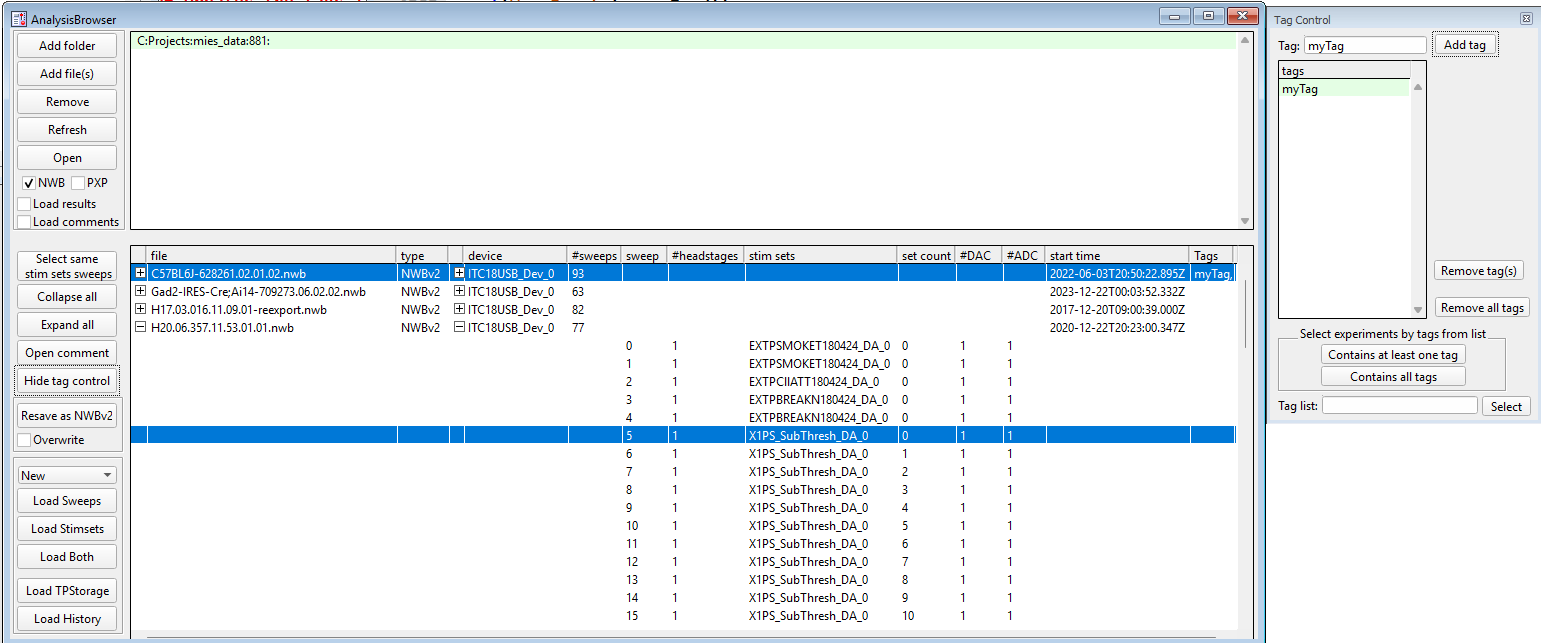
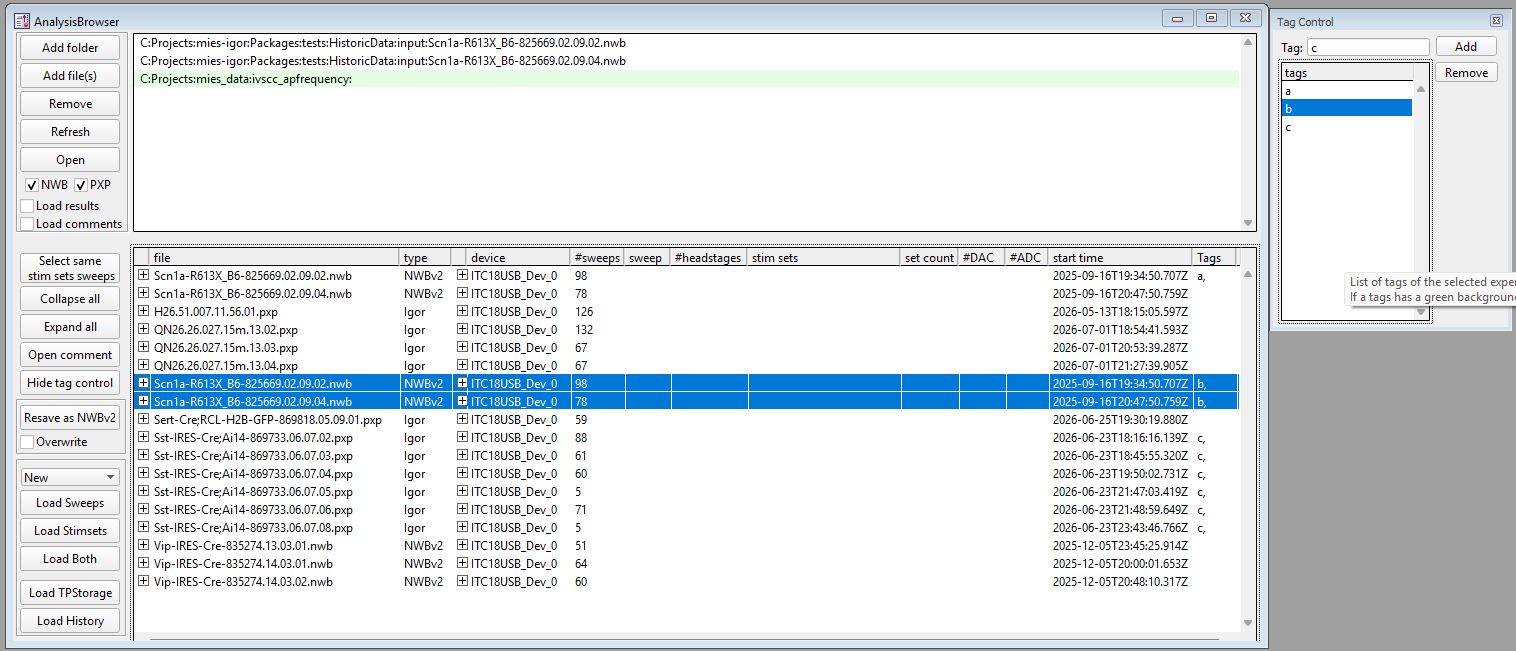
AB: Revision two of tag control
- simplified tag control
- only button Add/Remove
- selecting tags in the tag list select experiments with exactly the
  same tags
- subwindow resizing works properly now

diff --git a/Packages/doc/analysisbrowser.rst b/Packages/doc/analysisbrowser.rst
@@ -69,18 +69,14 @@ are sanitized to valid Igor object names (e.g. a comma is replaced with an under
 
 * Input field "Tag": Enter a single tag name here. Pressing Enter adds it to all experiments currently
   selected in the experiment list.
-* Button "Add tag": Same action as pressing Enter in the "Tag" field.
-* Listbox: Lists the tags present across the currently selected experiments. A tag has a green
-  background if every selected experiment carries it.
-* Button "Remove tag(s)": Removes the tags selected in the listbox from all selected experiments.
-* Button "Remove all tags": Removes all tags from all selected experiments. Use with care, this cannot be undone.
-* Button "Contains at least one tag": Selects all experiments in the experiment list that carry at least
-  one of the tags selected in the listbox.
-* Button "Contains all tags": Selects all experiments in the experiment list whose tags are exactly the
-  tags selected in the listbox (not more, not fewer).
-* Input field "Tag list": Enter a comma-separated list of tags. Pressing Enter, or the "Select" button,
-  selects experiments whose tags exactly match this list.
-* Button "Select": Same action as pressing Enter in the "Tag list" field.
+* Button "Add": Same action as pressing Enter in the "Tag" field.
+* Listbox: Lists the tags present across all experiments.
+* Button "Remove": Removes all tags from selected experiments. Use with care, this cannot be undone.
+
+Tags can be selected in the tags list. When tags are selected then all experiments are selected that have
+these tags.
+Example: When tags "a", "b", "c" are selected then experiments with tags "a,b,c" are selected.
+Experiments with tag "a" or "a,b" are unselected.
 
 Tags assigned here can be used to filter sweeps loaded into a SweepBrowser via the `seltag` SweepFormula
 operation, see :ref:`SweepFormula`.